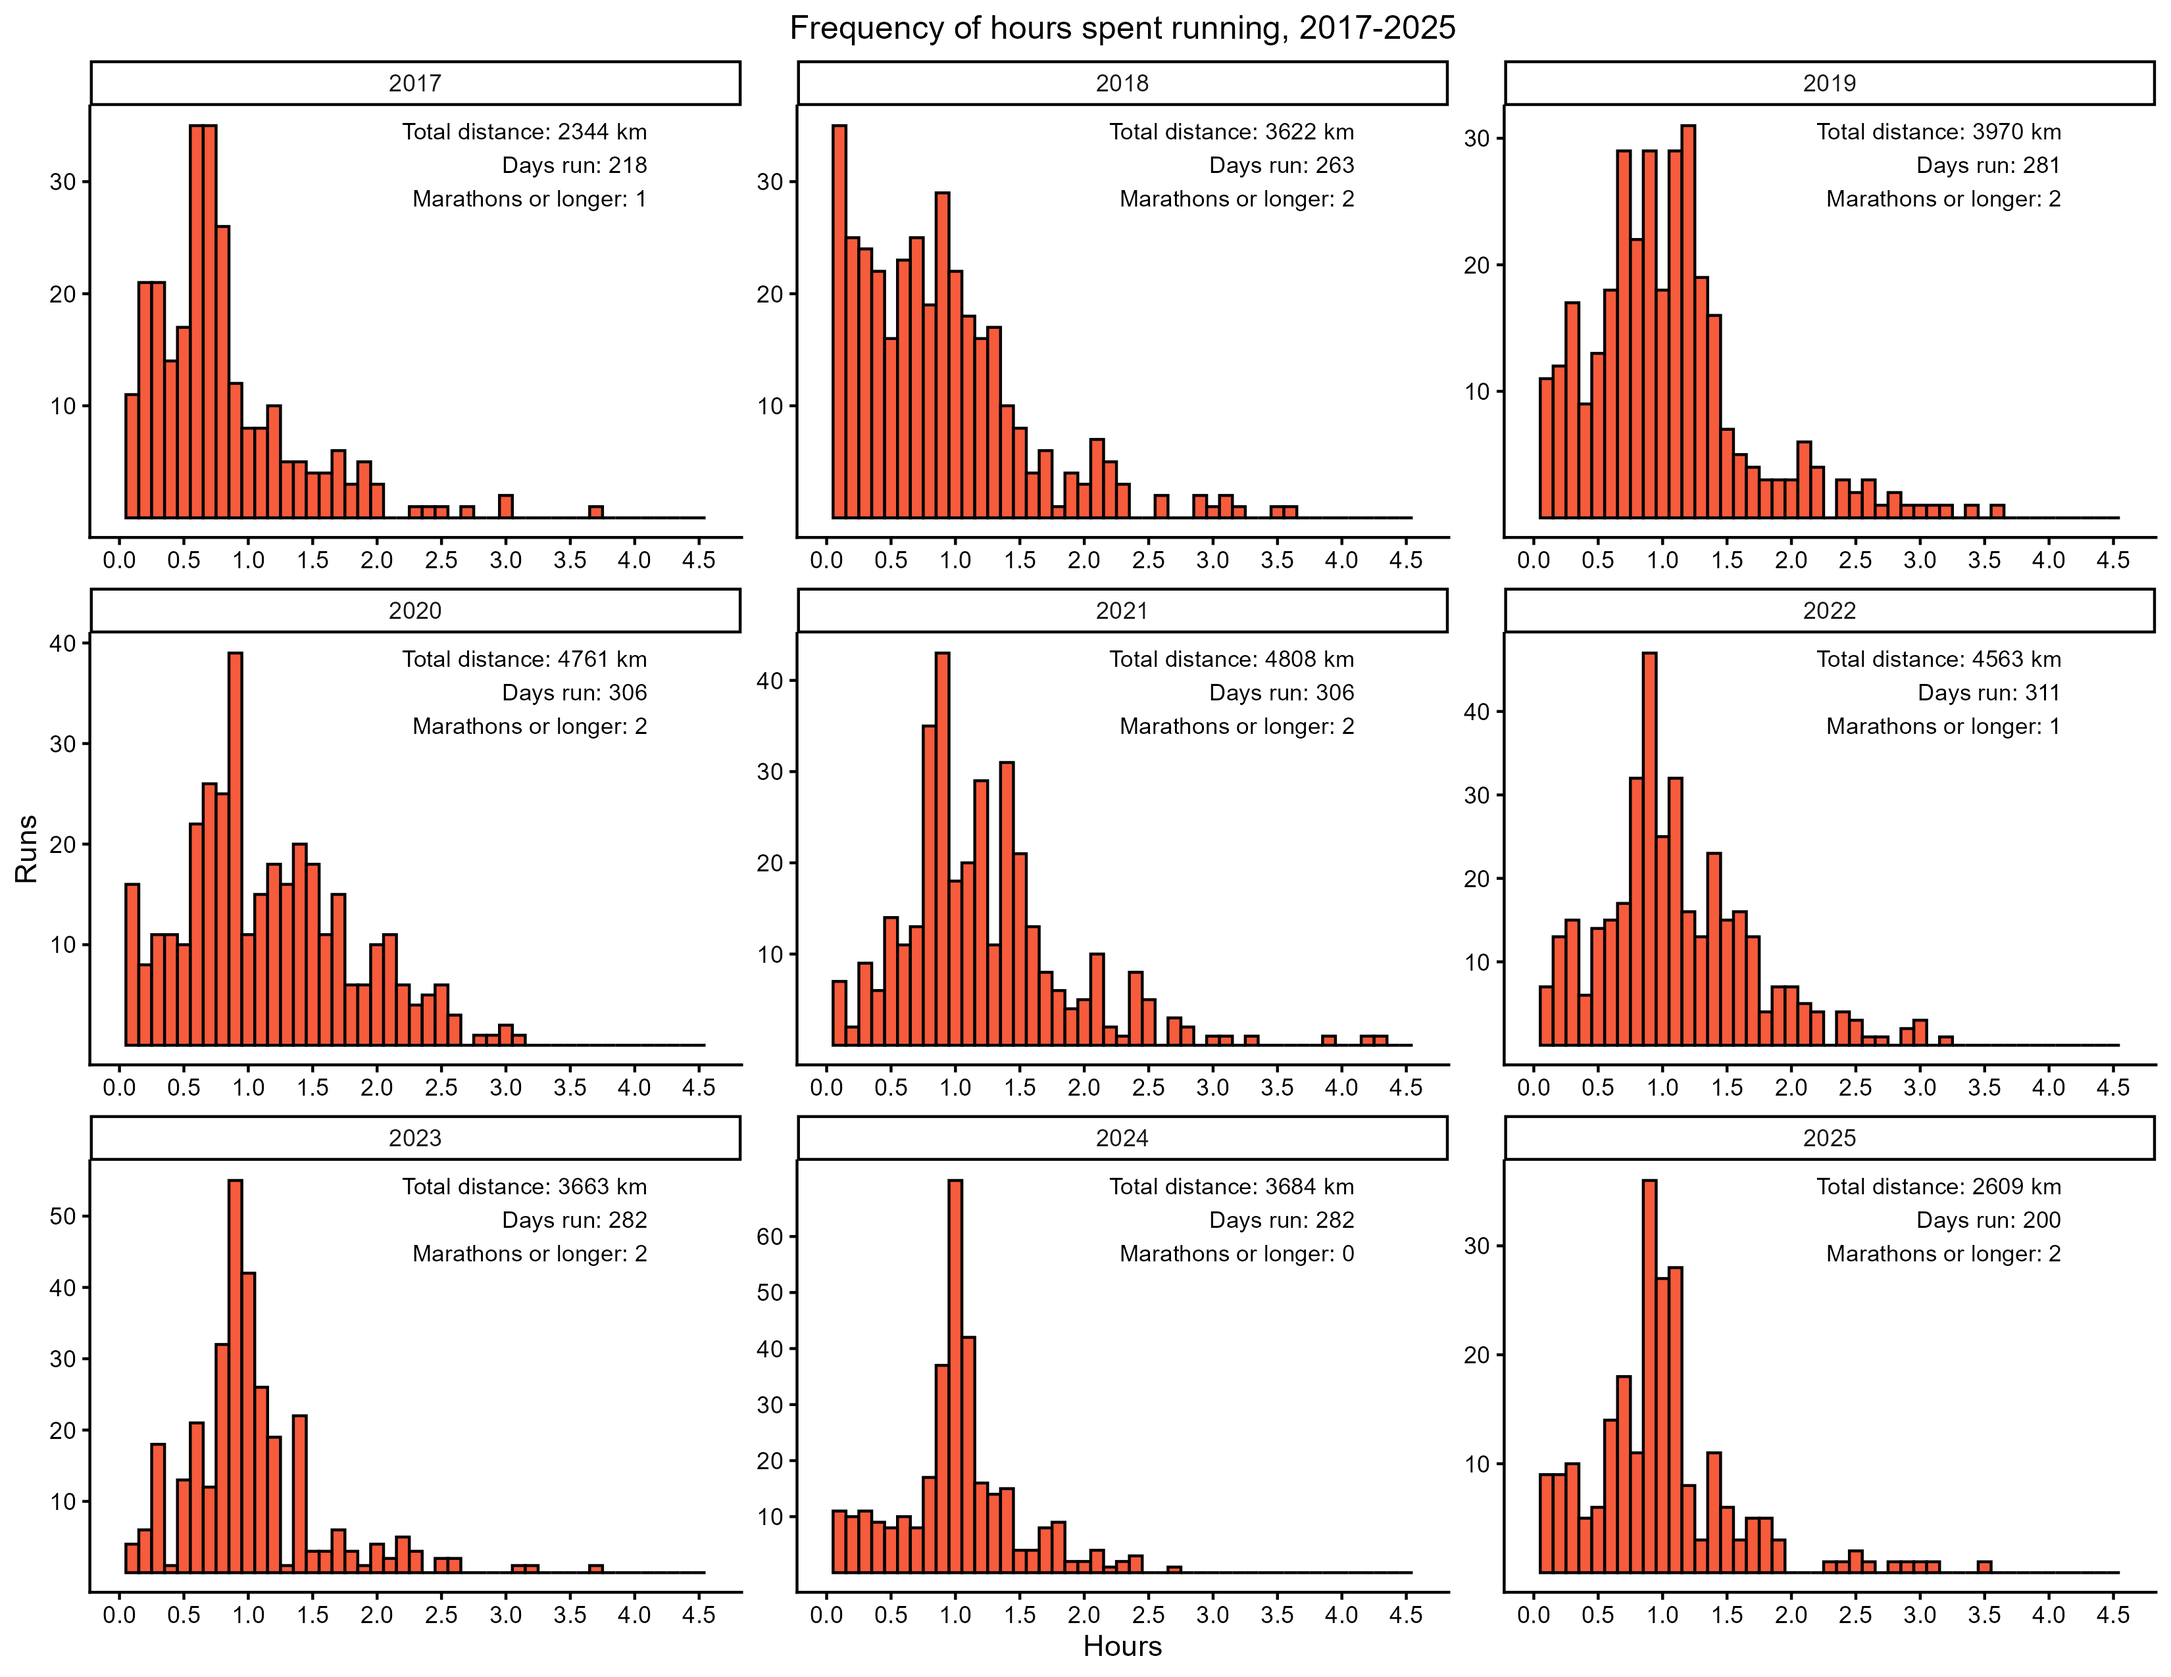
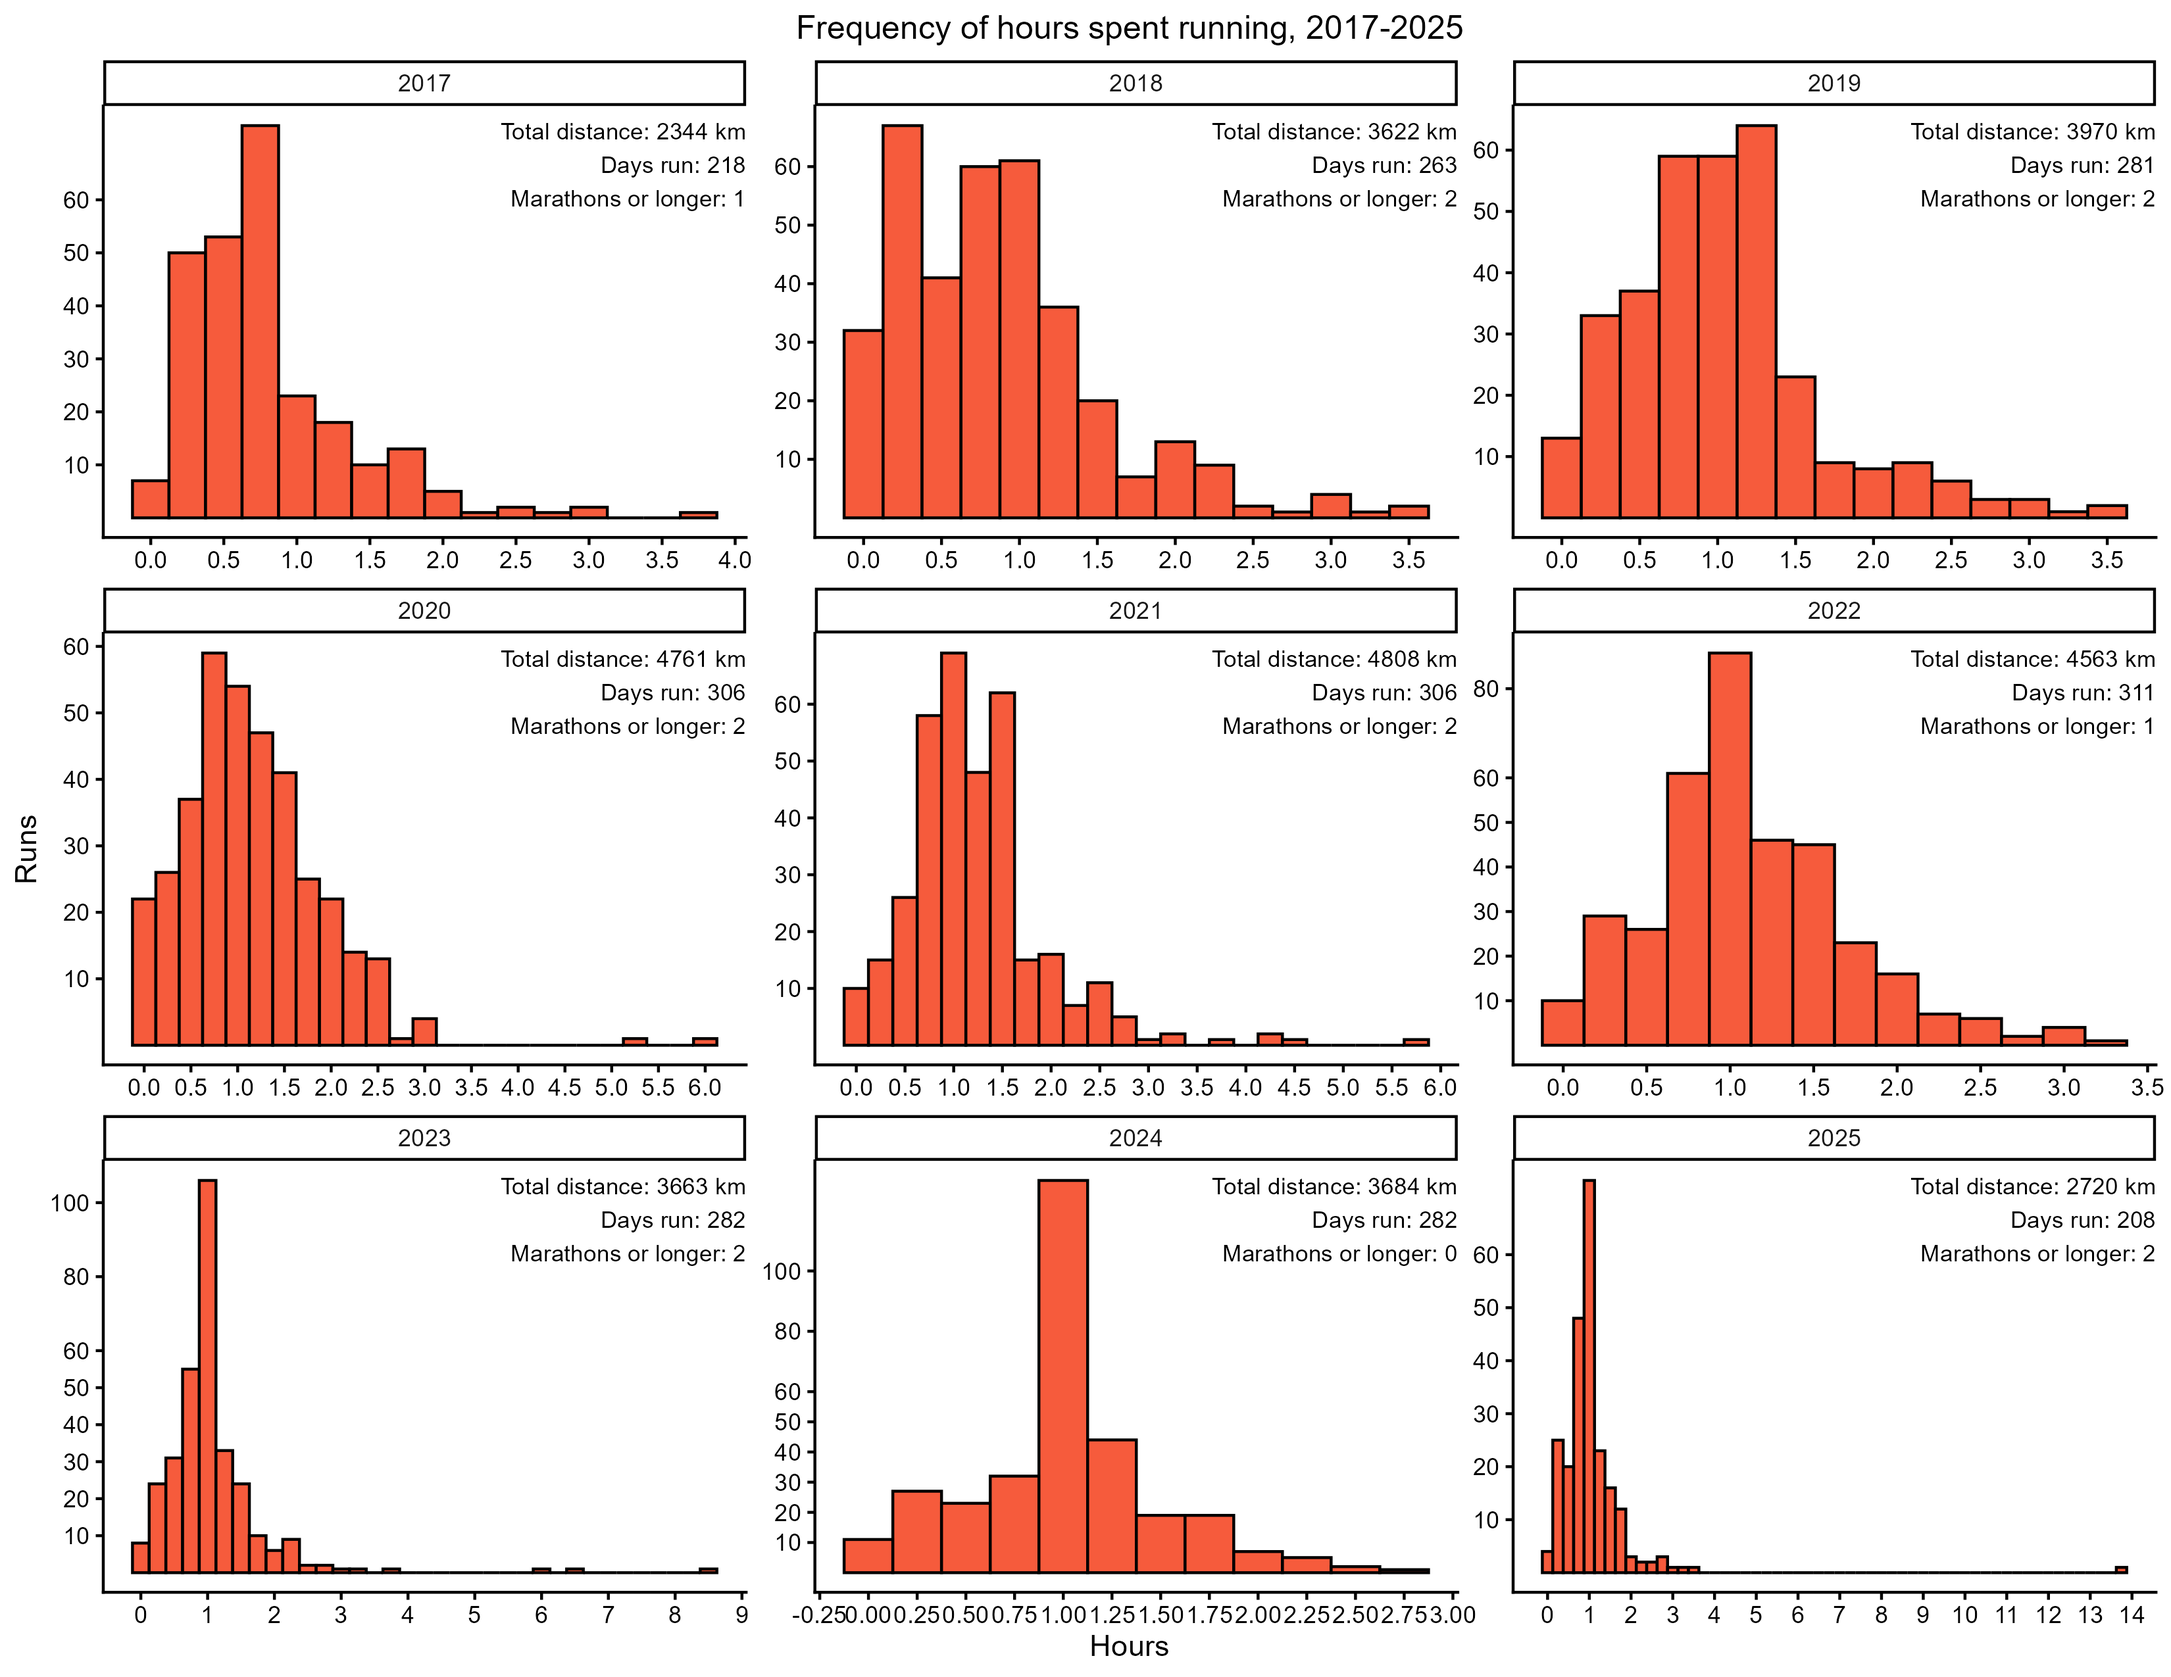
Updates to resume and projects, including launching shiny app

diff --git a/index.html b/index.html
@@ -127,7 +127,7 @@
   /* Dropdown container */
   .project-dropdown {
     width: 60%;              /* <--- adjust width here */
-    max-width: 400px;        /* <--- keeps it a clean narrow size */
+    max-width: 800px;        /* <--- keeps it a clean narrow size */
     margin: 0 auto 2rem;
   }
 
@@ -159,9 +159,7 @@
     background: #fff;
     padding: 2rem;
     border-radius: 15px;
-    max-width: 700px;
-    margin-left: auto;
-    margin-right: auto;
+    max-width: 800px;
     text-align: left;
     border: 1.5px solid #ddd;
     box-shadow: 0 4px 15px rgba(0,0,0,0.05);
@@ -169,6 +167,7 @@
   }
 
   .project-details h3 {
+    width: 800px;
     font-family: 'Playfair Display', serif;
     font-size: 1.8rem;
     margin-bottom: 0.5rem;
@@ -178,7 +177,7 @@
   .project-details img {
     display: block;
     width: 100%;
-    max-width: 500px;   /* <--- adjust size of embedded image */
+    max-width: 800px;   /* <--- adjust size of embedded image */
     border-radius: 10px;
     margin: 1.5rem auto;
     cursor: pointer;
@@ -411,16 +410,17 @@
         `;
         break;
       case "project2":
-        content = "<h3>CAHPS for MIPS</h3><p> Coming soon </p>";
+        content = `<h3>CAHPS for MIPS</h3><p> I worked on the Consumer Assessment of Healthcare Providers and Systems (CAHPS) during my tenure at RAND. The Merit-based Incentive Payment System (MIPS) survey is administered annually to Medicare recipients and aims to evaluate patient experience in 10 domains. My role was to select beneficiaries for the survey, clean and score reported survey data, and analyze data to support CMS's needs. Due to the sensitive nature of the material, these analyses were internal to CMS. I led analyses describing discrepancies in patient experience by demographics (age, gender, and race). Additionally, I reported on the efficacy of mandating that the survey be available in both English and Spanish. </p> 
+          <button onclick="openCAHPS()">📄 Read more about CAHPS for MIPS on CMS.gov</button> <br> <br>        
+        `;
         break;
       case "project3":
-       content = `<h3>A hobby project</h3><p> I love running and have been logging my runs on Strava since 2017. I downloaded the data and decided to display the distribution of my run length for each year.</p>
-        <img src="distance_run.png" alt="Histograms showing the distribution of run distance in kilometers by year from 2017-2025." class="click-zoom" />
+       content = `<h3>A hobby project</h3><p> I love running and have been logging my runs on Strava since 2017. I downloaded the data and built a shiny app to show various aspects of my running career to date.</p>
+            <iframe src="https://16s2p9-gretchen.shinyapps.io/strava_data/" width="900px" height="700px" frameborder="0"></iframe>
+            <button onclick="expandIframe()">View in fullscreen</button>
         `;
 
          break;
-      default:
-        content = "<p>Select a project to see its description.</p>";
     }
 
     details.innerHTML = content;
@@ -473,12 +473,16 @@ function openResume() {
   window.open('Swabe resume 2025.pdf', '_blank');
 }
 function openSummary() {
-  // Opens your PDF in a new tab (recommended for GitHub Pages)
+  // Opens link in a new tab (recommended for GitHub Pages)
   window.open("https://www.rand.org/pubs/research_reports/RRA3212-1.html", '_blank');
 }
 function openFullReport() {
   // Opens your PDF in a new tab (recommended for GitHub Pages)
   window.open('Hidden_heroes_report.pdf', '_blank');
+}
+function openCAHPS() {
+  // Opens link in a new tab (recommended for GitHub Pages)
+  window.open("https://www.cms.gov/data-research/research/consumer-assessment-healthcare-providers-systems/cahps-mips", '_blank');
 }
 // Lightbox zoom functionality
 const modal = document.getElementById("lightboxModal");
@@ -501,6 +505,9 @@ modal.onclick = (e) => {
         modal.style.display = "none";
     }
 };
+function expandIframe() {
+  window.open("https://16s2p9-gretchen.shinyapps.io/strava_data/", '_blank');
+}
 
 </script>
 <!-- Lightbox Modal -->
